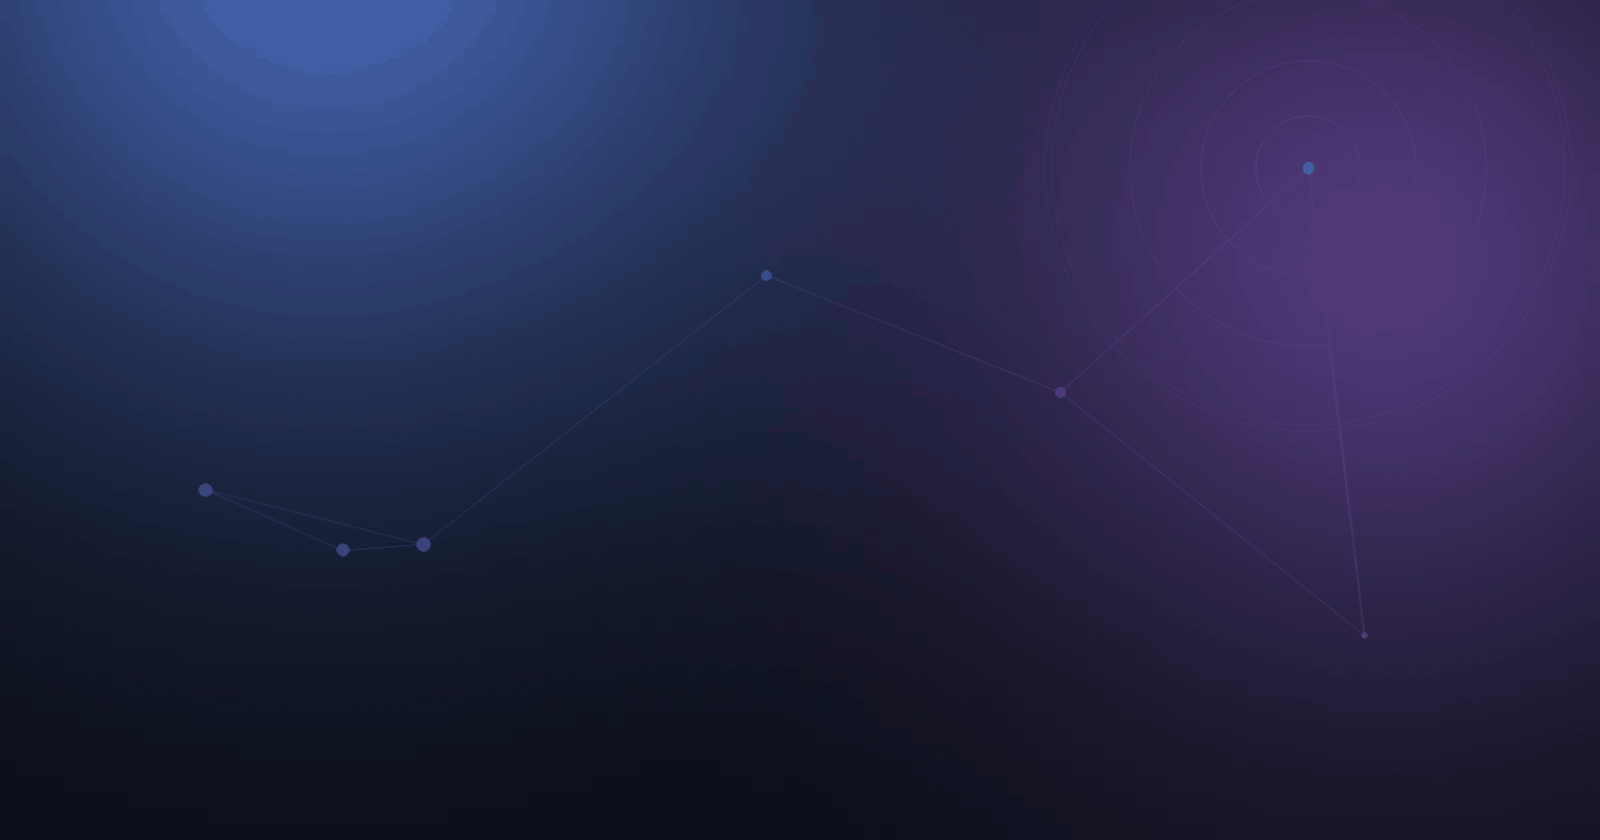
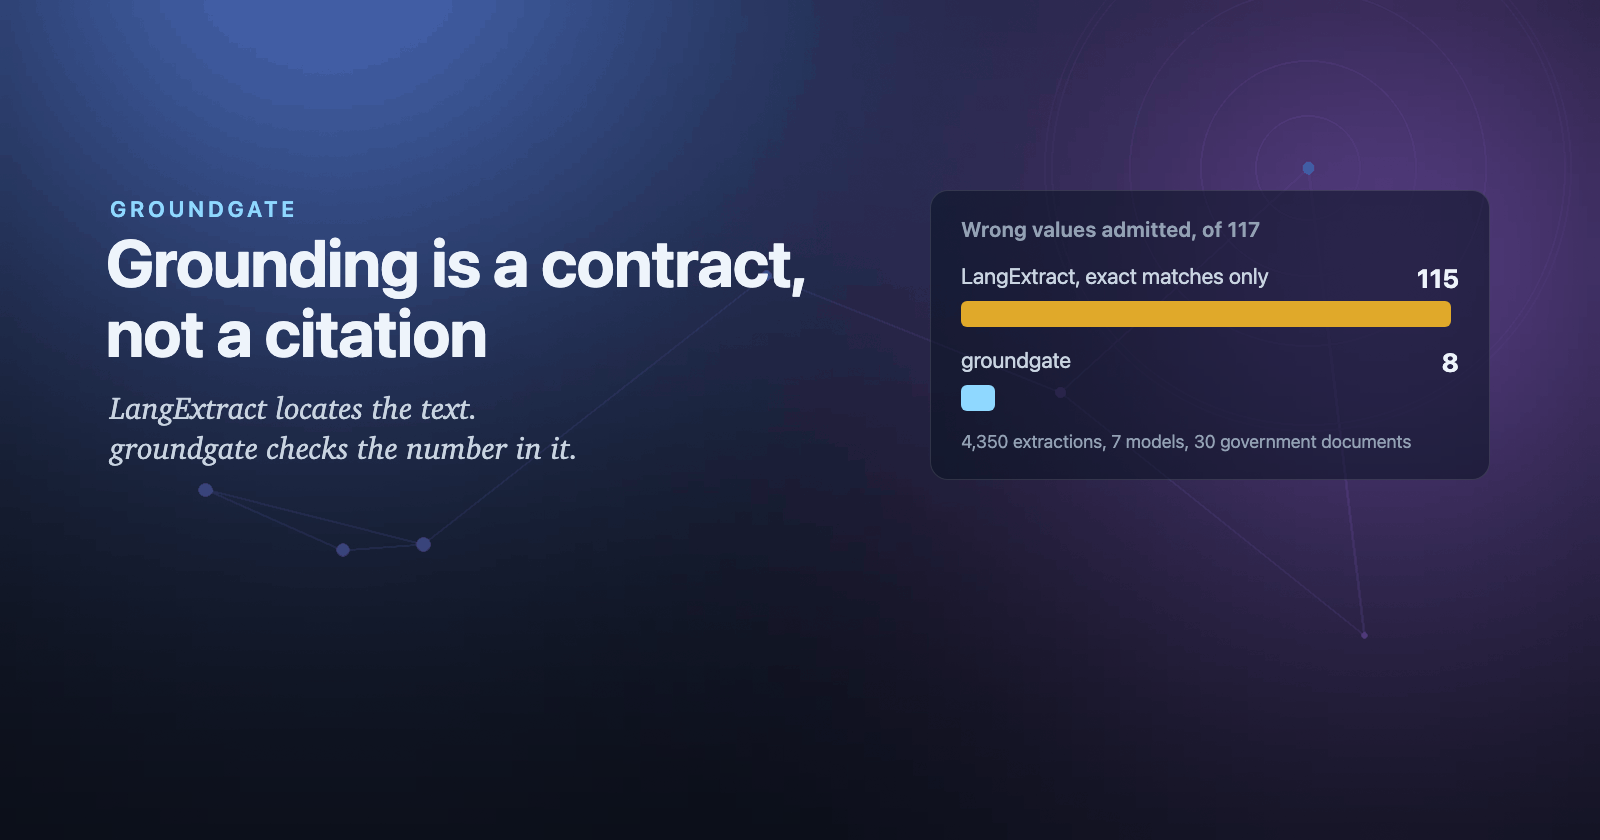
tech: publish the groundgate follow-up post
Add "The review queue is the cost", which covers the evidence list
and recorded model judgments in groundgate 0.4 to 0.5.1. Add an
update box to the first post that links to it. Give both posts hero
images with a title, a tagline and a visual.

Changed region(s): [[0.5625, 0.2167, 0.9375, 0.5881], [0.0625, 0.2167, 0.5, 0.4333], [0.0625, 0.4643, 0.375, 0.5571]]

diff --git a/_tech/the-review-queue-is-the-cost.md b/_tech/the-review-queue-is-the-cost.md
@@ -1,0 +1,98 @@
+---
+title: "The review queue is the cost"
+date: 2026-10-08
+image: /assets/heroes/the-review-queue-is-the-cost.png
+description: "A gate can stop almost every wrong value by sending everything to a person. groundgate now scores each rule by right values admitted and wrong values admitted, and lets a recorded model answer clear one kind of flag without letting the model decide."
+---
+
+In [the first post](/tech/grounding-is-a-contract/), groundgate admitted 8 of 117 wrong extractions, where LangExtract's exact matches admitted 115. The price was review. groundgate sent one extraction in eight to a person.
+
+Then I picked 101 new documents with the cases that escaped: doses that change by indication, doses per kilogram, amounts such as "$1.2 million". On the 74 that I checked in full, the spec 0.2 rules cut the share of wrong extractions admitted from 30.7% to 8.8%. They also sent 39.6% of all extractions to a person, up from 28.2%.
+
+A gate that sends four facts in ten to a person is too slow to run.
+
+So I changed what I measure. Every rule now gets two numbers: the right values it admits, and the wrong values it admits. Reviews are the cost between them, because each review is a value that a person confirms by hand. A rule that cuts escapes by adding reviews is not free. The best rule admits more right values with no new escape.
+
+This post covers two changes that target that cost. In the first, the extractor cites every part of a value. In the second, a model's answer becomes a recorded input to the gate. That answer can clear one flag, and the gate still makes every decision.
+
+## Most reviews are right values
+
+A rule that is unsure sends the value to a person, and most of those values are right. Spec 0.3 reads a flattened dose table by its lines. On 62 doses in such tables, the wrong indication went from 60 doses to none, and the right indication went from 55 doses to 3. So 52 right doses now go to review with the wrong ones.
+
+## Let the extractor cite every part
+
+A 10-K table states "(in thousands)" once, at the top. A row states "18,789". Claude Haiku 4.5 scales table numbers, so it returned 18789000, which is right. Spec 0.3 rejected it, because no single quote in the document holds 18789000.
+
+The value was right. Its evidence was in two places, and groundgate could check only one.
+
+Spec 0.5 lets the extractor cite each part of a value where it is: the number, its sign, its scale, its unit, the row label and the column heading. groundgate checks each part and computes the value from them. Here is one candidate, from a made-up statement table in the guide:
+
+```json
+{"field": "operating_income", "key": "2025", "value": "-3415000", "unit": "USD",
+ "evidence": [{"role": "value", "text": "(3,415)"},
+              {"role": "scale", "text": "(in thousands)"},
+              {"role": "unit",  "text": "$"},
+              {"role": "field", "text": "Loss from operations"},
+              {"role": "key",   "text": "2025"}]}
+```
+
+The brackets make the value negative. The scale multiplies it by a thousand. When a part that the value needs has no citation, the value goes to review with that part named. It is not rejected.
+
+On 20 new 10-K filings, spec 0.4 admitted 23 right values and 1 wrong one. Spec 0.5 admitted 26 right values and no wrong one, and sent 13 values to review for a missing part. On an IRS filing-status set, both specs admitted the same 28 right values, and spec 0.5 sent 20 values to review for a missing part. The change gave no gain there. One rule costs right values on the 10-K set: a unit item fails when the unit is already next to the number. Without that rule, spec 0.5 admits 33. The fix is open for 0.6.
+
+## A model answer as a recorded input
+
+Some flags are mostly false alarms. In the test part of a second 10-K set, 40 filings, 53 values had the flag `KEY_NOT_AT_VALUE`: groundgate could not find the fiscal year at the value. At 51 of them, the value had the right year. A column heading a few lines up is easy for a person and hard for a text rule.
+
+A small model reads that context well. groundgate exists because the component that produces a fact must never approve it. A gate that calls a model also cannot promise the same decision twice.
+
+Spec 0.4 keeps both properties, because the model's answer is a recorded input, not a call:
+
+1. Before the decision, a judge model answers one question about one flagged value, such as "which fiscal year is this value for?". You store the answer and its probability.
+2. The policy names one judge, one model version, and one threshold for each question.
+3. groundgate reads the stored answer. If the judge picks the candidate's own key at or above the threshold, the flag clears with `MODEL_CLEARED`. If it picks another key or none, the value gets `MODEL_DOUBT`.
+4. The receipt lists every judgment that applied. `groundgate verify` takes the same judgments and re-derives the receipt byte for byte.
+
+```python
+policy = {"judge": {"id": "my-judge", "digest": "my-judge-1.0",
+                    "clear": {"KEY_NOT_AT_VALUE": 0.5}}}
+receipt = gg.admit(text, schema, candidates, policy, judgments=judgments)
+```
+
+The spec sets two limits. A judgment never overturns a rejection. A judgment never admits a value that has another flag. If the cleared flag was the only one, every check on the value has passed, and the gate admits it.
+
+On that test part, the judge at 0.5 cleared 34 of the 51 right flags, with no escape. The FDA labels gave the same threshold. The test part held only 2 wrong flags, so the escape result uses few data. The second question asks whether a value is the field at all. With the FDA threshold, it caught 0 of 6 wrong values and sent 5 right ones to review.
+
+A threshold belongs to one model and one kind of document, so groundgate ships none. `groundgate-calibrate` measures yours on your own documents. It is not on PyPI yet.
+
+## Where it goes in a pipeline now
+
+You do not need LangExtract. `gg.extractor_schema(schema)` builds a JSON Schema for your model's structured output, in the subset that strict output modes accept. Your schema fixes the field, unit and keys that the model can return.
+
+1. Your model proposes candidates with their quotes.
+2. Optionally, a judge answers questions about flagged values, and you store the answers.
+3. groundgate decides each candidate from the document, the schema, the policy and the stored answers.
+4. Admitted values go to your database. Values for review go to a person, with the reason and the place to read. A [how-to](https://github.com/mohanraj00/groundgate/blob/main/docs/howto/feedback.md) sends the reasons back to the model once, for a second try.
+
+<details class="inset" markdown="1">
+<summary>How I measure a rule</summary>
+
+Every rule comes from a failure, so I never measure it on the documents it came from. Each rule gets a new set of documents, picked by rules that I froze before anyone read them. A person labels the set blind, before scoring. The changelog names the measure and the set for each release, and CI rescores the sets from cached model output.
+
+The numbers in this post come from small sets: 62 table doses, 20 new 10-K filings with one extractor run, and a judge test part with 2 wrong flags. They show which way a rule moves the two numbers. They are not rates to expect on your documents.
+
+</details>
+
+<details class="inset" markdown="1">
+<summary>What is open</summary>
+
+- In a table "(in thousands)", a value given unscaled with no scale item is admitted ([#162](https://github.com/mohanraj00/groundgate/issues/162)). That is a path for an escape, and it is planned for 0.6.
+- The unit rule above costs right values on the 10-K set.
+- The one built-in judge is a hosted model. It sends a window of each document out of the machine.
+- groundgate reads English number formats only, and it does not read dates or lists of records.
+
+</details>
+
+groundgate 0.5.1 is on [PyPI](https://pypi.org/project/groundgate/) under Apache-2.0. The [changelog](https://github.com/mohanraj00/groundgate/blob/main/CHANGELOG.md) has every rule with its measure.
+
+The model proposes, and it can confirm one thing. Only the gate admits.

diff --git a/_tech/grounding-is-a-contract.md b/_tech/grounding-is-a-contract.md
@@ -5,6 +5,8 @@ image: /assets/heroes/grounding-is-a-contract.png
 description: "LLMs get most extracted numbers right, and the wrong ones arrive with real citations. groundgate checks each value against its citation. Across 4,350 extractions it let 8 of 117 wrong values through; keeping only LangExtract's exact matches let 115."
 ---
 
+> **Update, 8 October 2026:** this post measures spec 0.1. groundgate is now at 0.5.1. [The review queue is the cost](/tech/the-review-queue-is-the-cost/) covers what changed: evidence for each part of a value, and recorded model judgments that can clear a flag but never admit a fact.
+
 I'm building a stealth vertical AI platform that extracts data from authoritative documents, and the numbers it extracts end up on money paths. If you've pulled numbers out of a PDF with Gemini, NotebookLM or LangExtract, you've probably found that the models are usually right. My benchmark agrees. Across seven models and 30 government documents, 4,233 of 4,350 extractions were correct.
 
 This post is about the other 117. That is about 1 in 37, and nothing on the page tells you which ones. Every one of them cited a real place in its document, and keeping only exact matches still let 115 through. I built [groundgate](https://github.com/mohanraj00/groundgate) to catch them, and it let 8 through.
@@ -138,6 +140,6 @@ The benchmark counts reviews. It doesn't measure how long a review takes or how 
 
 </details>
 
-The method, every escape and the per-run tables are in the [benchmark write-up](https://github.com/mohanraj00/groundgate/blob/main/bench/README.md) and the [results](https://github.com/mohanraj00/groundgate/blob/main/bench/RESULTS.md). groundgate is an Apache-2.0 Python library with no core dependencies, on [PyPI](https://pypi.org/project/groundgate/). The current release is 0.3.0, and the numbers in this post are spec 0.1's. Run `pip install groundgate`; the README quickstart runs offline with no API key.
+The method, every escape and the per-run tables are in the [benchmark write-up](https://github.com/mohanraj00/groundgate/blob/main/bench/README.md) and the [results](https://github.com/mohanraj00/groundgate/blob/main/bench/RESULTS.md). groundgate is an Apache-2.0 Python library with no core dependencies, on [PyPI](https://pypi.org/project/groundgate/). The numbers in this post are spec 0.1's. Run `pip install groundgate`; the README quickstart runs offline with no API key.
 
 LangExtract locates the text. groundgate checks the number in it.
